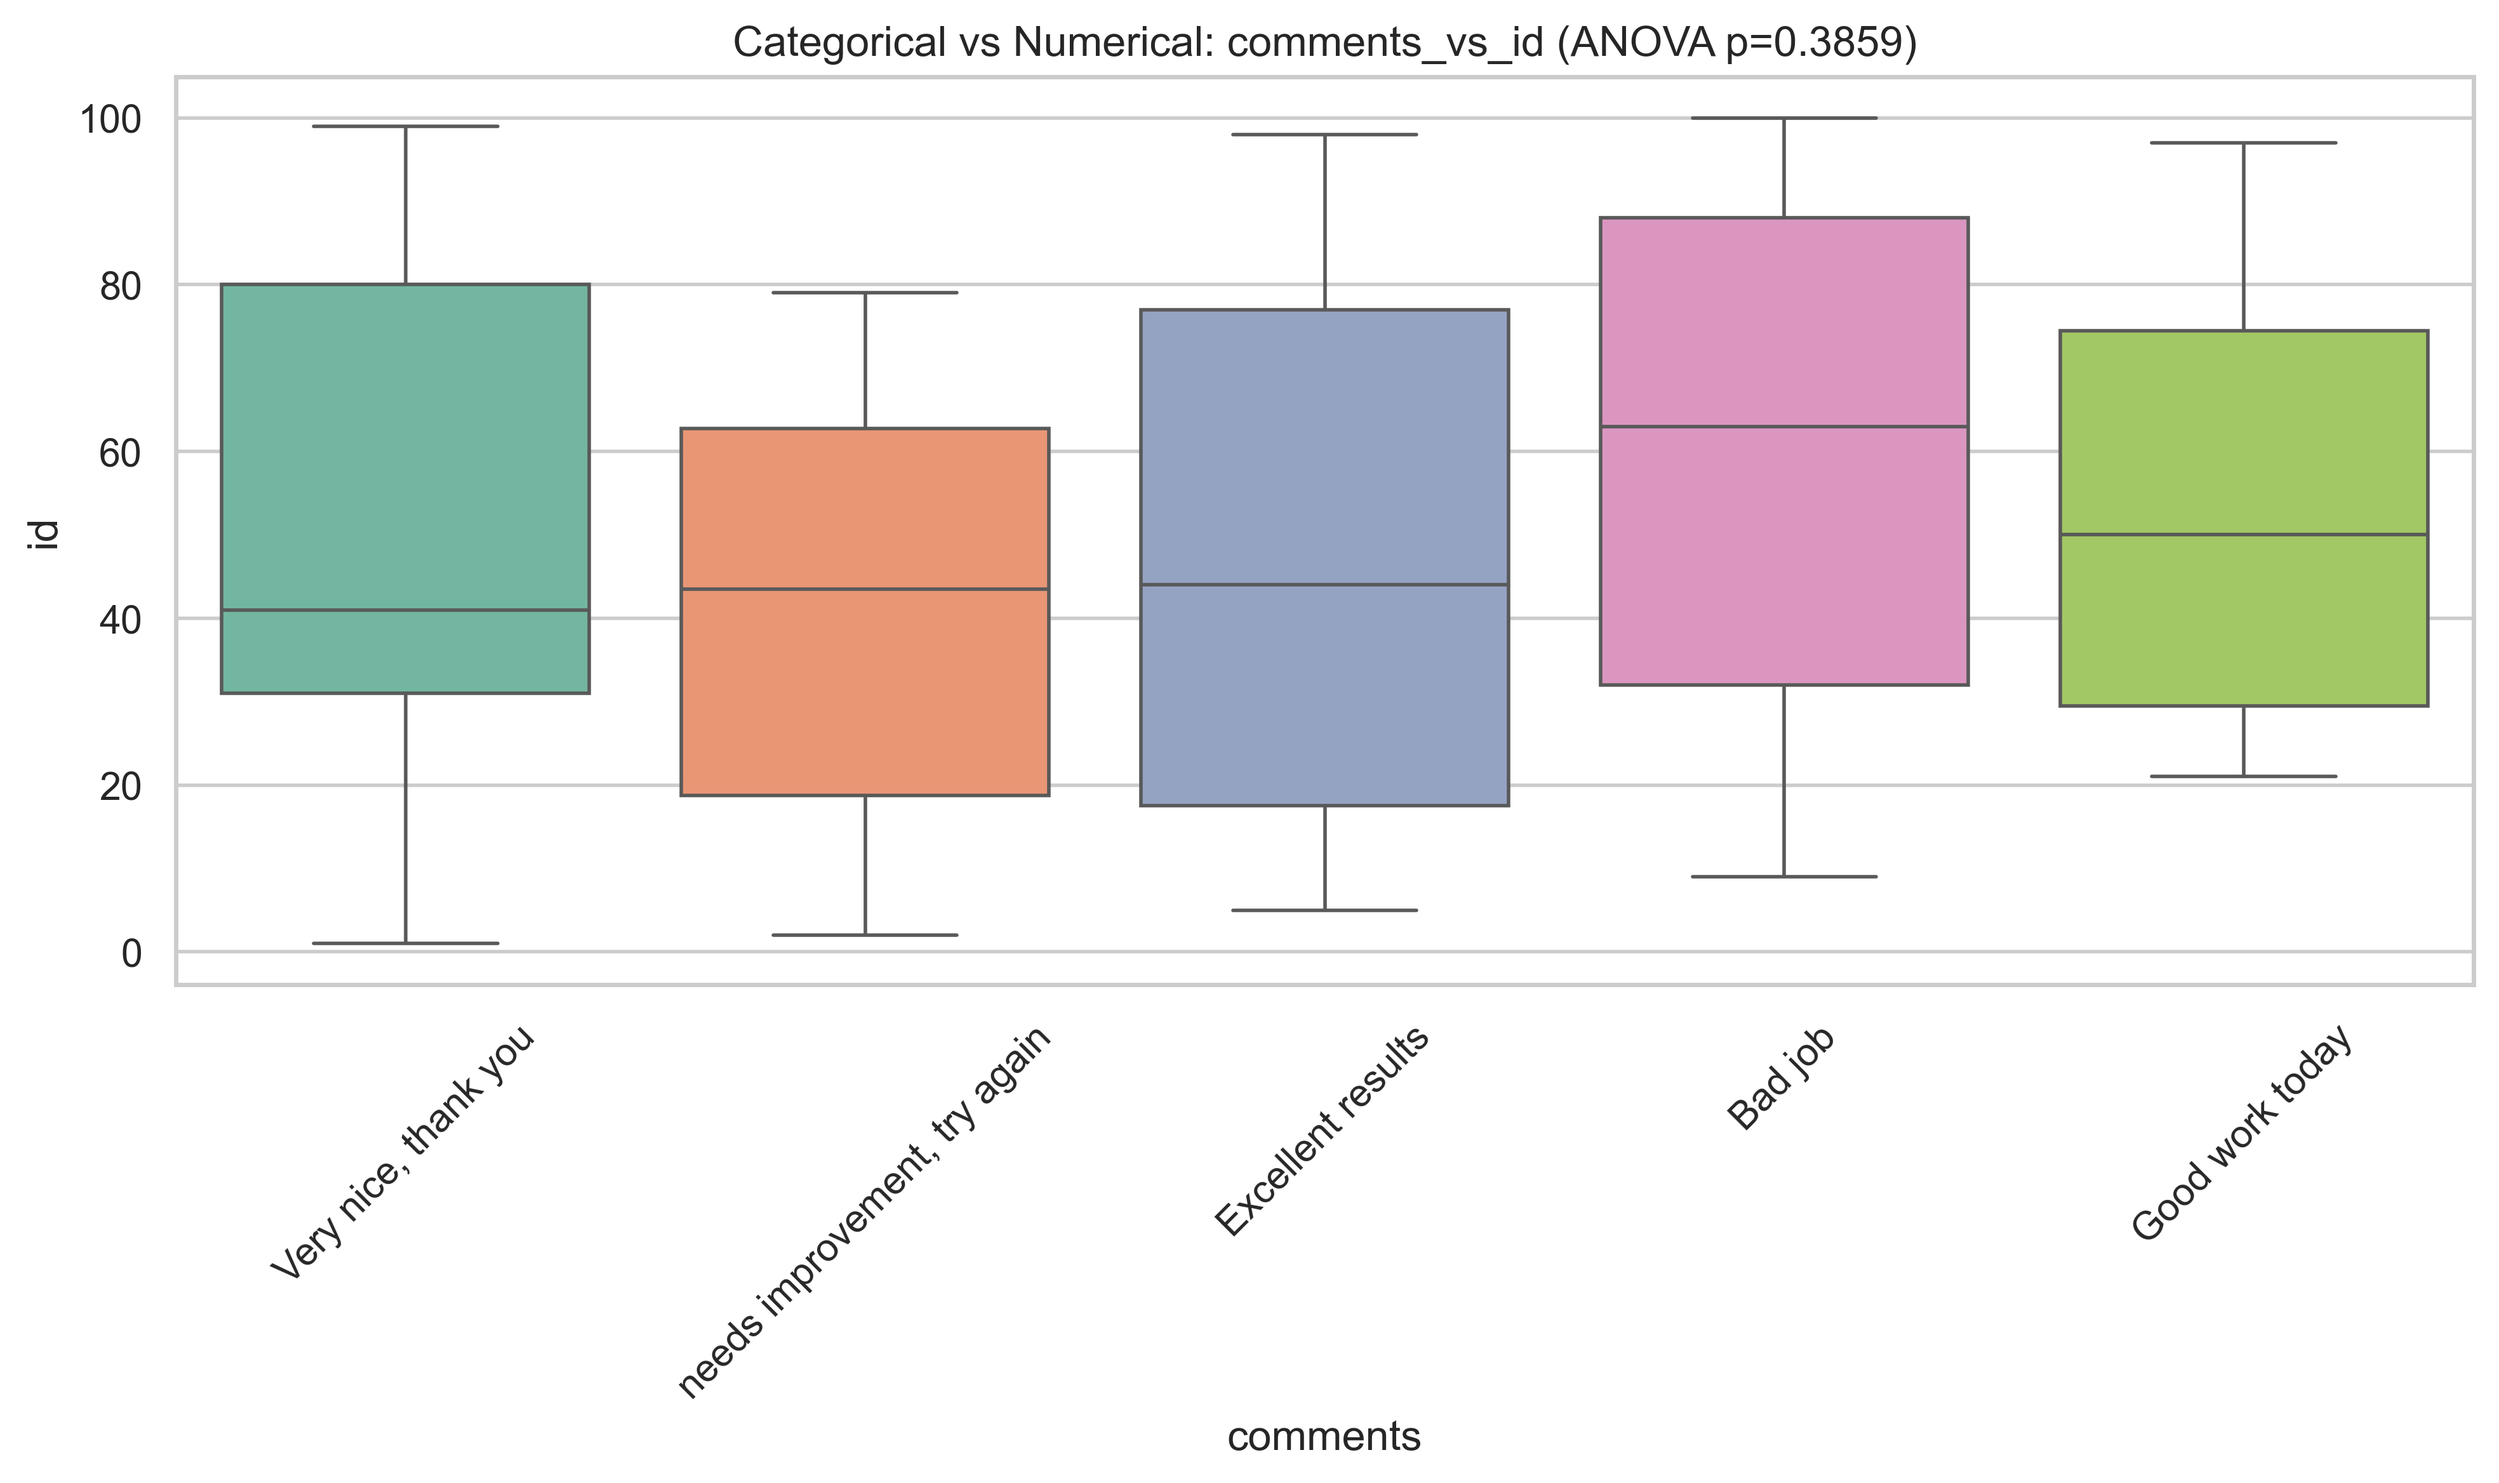
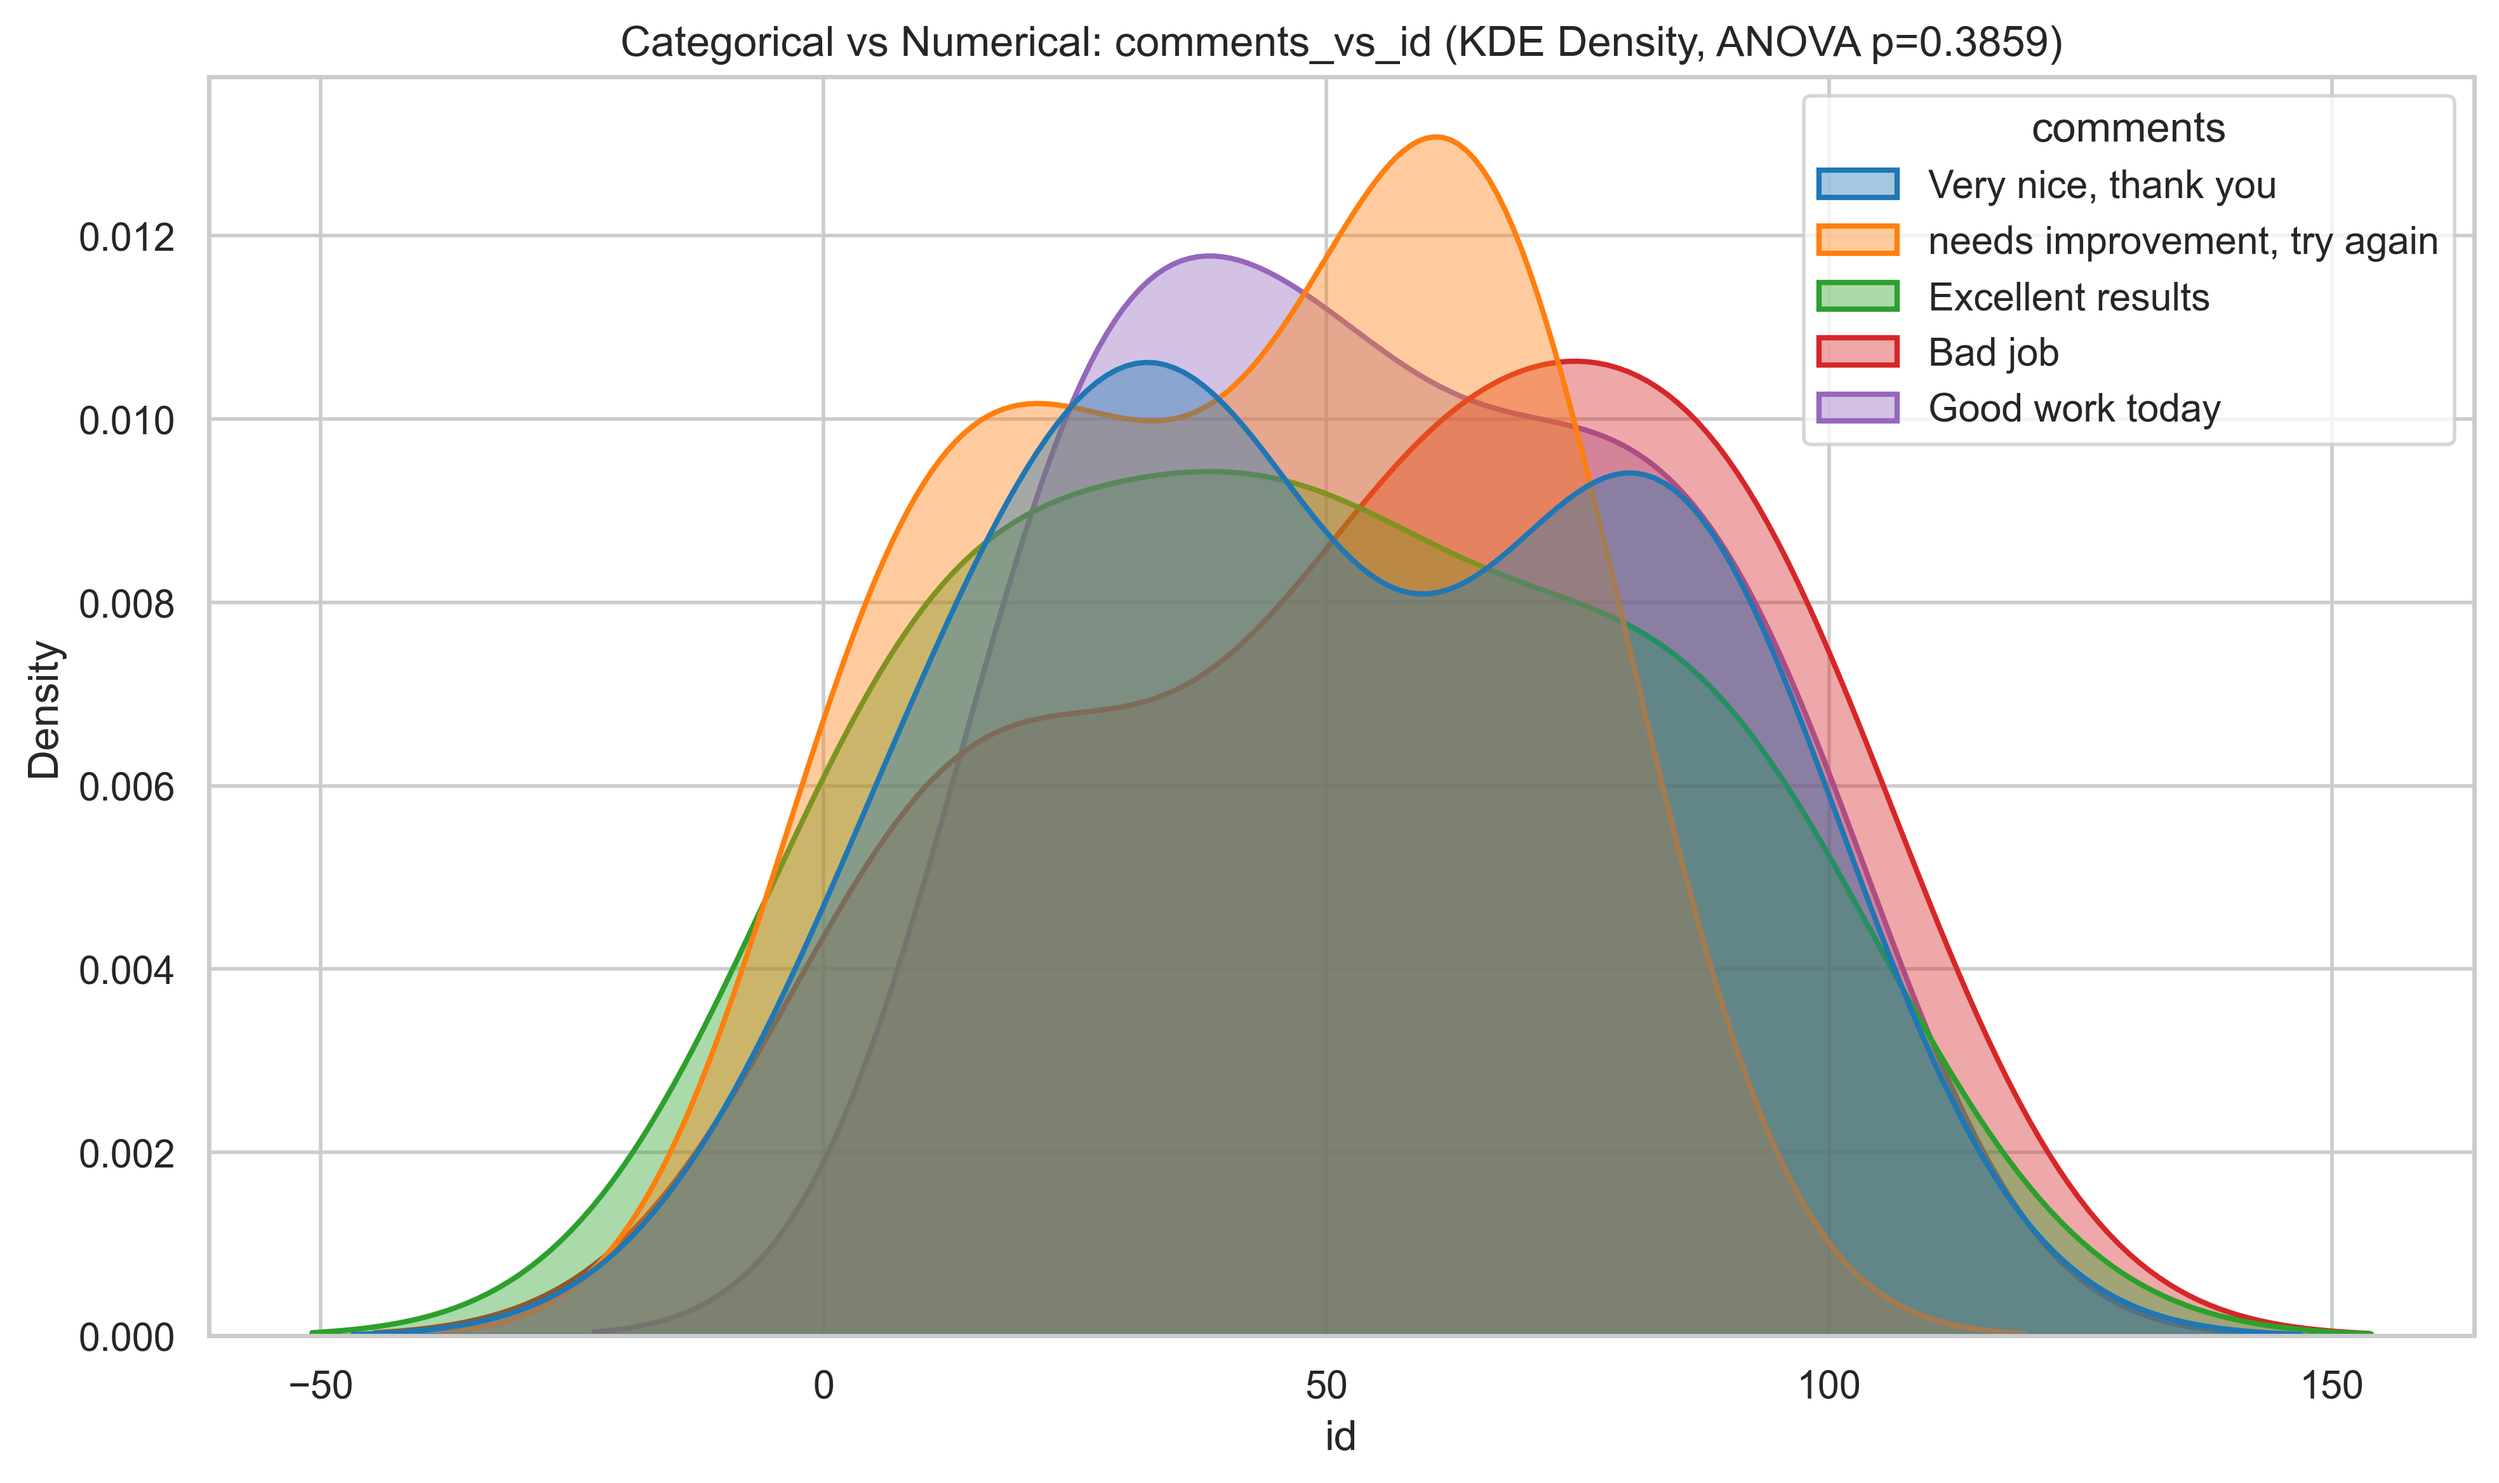
update visualizations for meaning and semantics (kde, heatmap, jointplot)

diff --git a/src/chokkhu/eda/tabular/plotter.py b/src/chokkhu/eda/tabular/plotter.py
@@ -280,14 +280,19 @@ class TabularPlotter:
         # Cat vs Cat
         cat_vs_cat = biv.get("cat_vs_cat", {})
         if cat_vs_cat:
-            print("  Categorical vs Categorical Analysis (Cross-tab, Stacked Bar)")
+            print("  Categorical vs Categorical Analysis (Contingency Heatmap)")
         for pair_name, data in cat_vs_cat.items():
             crosstab = data["crosstab"]
-            fig, ax = plt.subplots(figsize=(10, 6))
-            crosstab.plot(kind="bar", stacked=True, ax=ax, cmap="viridis")
-            ax.set_title(f"Categorical vs Categorical: {pair_name}")
-            ax.set_ylabel("Count")
-            ax.tick_params(axis="x", rotation=45)
+            fig, ax = plt.subplots(figsize=(10, 8))
+            sns.heatmap(crosstab, annot=True, fmt="d", cmap="YlGnBu", ax=ax, cbar=True)
+            ax.set_title(
+                f"Categorical vs Categorical: {pair_name} (Contingency Heatmap)"
+            )
+            ax.set_ylabel(crosstab.index.name if crosstab.index.name else "Variable 1")
+            ax.set_xlabel(
+                crosstab.columns.name if crosstab.columns.name else "Variable 2"
+            )
+            plt.tight_layout()
             PlotVisualizer.save_and_show(
                 fig, f"4_cat_vs_cat_{pair_name}.png", self.save_dir, self.save_reports
             )
@@ -295,23 +300,30 @@ class TabularPlotter:
         # Cat vs Num
         cat_vs_num = biv.get("cat_vs_num", {})
         if cat_vs_num:
-            print("  Categorical vs Numerical Analysis (ANOVA, Boxplots, Violin)")
+            print("  Categorical vs Numerical Analysis (Overlapping KDE Density)")
         for pair_name, data in cat_vs_num.items():
             cat = data["cat"]
             num = data["num"]
             fig, ax = plt.subplots(figsize=(10, 6))
-            sns.boxplot(
-                x=self.df[cat],
-                y=self.df[num],
-                hue=self.df[cat],
-                legend=False,
-                ax=ax,
-                palette="Set2",
-            )
+
+            import warnings
+
+            with warnings.catch_warnings():
+                warnings.simplefilter("ignore", category=UserWarning)
+                sns.kdeplot(
+                    data=self.df,
+                    x=num,
+                    hue=cat,
+                    fill=True,
+                    common_norm=False,
+                    palette="tab10",
+                    alpha=0.4,
+                    linewidth=1.5,
+                    ax=ax,
+                )
             ax.set_title(
-                f"Categorical vs Numerical: {pair_name} (ANOVA p={data.get('anova_p', 1.0):.4f})"
+                f"Categorical vs Numerical: {pair_name} (KDE Density, ANOVA p={data.get('anova_p', 1.0):.4f})"
             )
-            ax.tick_params(axis="x", rotation=45)
             PlotVisualizer.save_and_show(
                 fig, f"4_cat_vs_num_{pair_name}.png", self.save_dir, self.save_reports
             )
@@ -319,17 +331,25 @@ class TabularPlotter:
         # Num vs Num
         num_vs_num = biv.get("num_vs_num", {})
         if num_vs_num:
-            print("  Numerical vs Numerical Analysis (Scatter Plots, Hexbins)")
+            print("  Numerical vs Numerical Analysis (JointPlot with Regression)")
         for pair_name, data in num_vs_num.items():
             n1 = data["n1"]
             n2 = data["n2"]
-            fig, ax = plt.subplots(figsize=(10, 6))
-            sns.scatterplot(x=self.df[n1], y=self.df[n2], ax=ax, color="purple")
-            ax.set_title(
-                f"Numerical vs Numerical: {pair_name} (Pearson={data.get('pearson', 0.0):.4f})"
+            g = sns.jointplot(
+                data=self.df,
+                x=n1,
+                y=n2,
+                kind="reg",
+                height=8,
+                scatter_kws={"alpha": 0.5, "color": "purple"},
+                line_kws={"color": "red"},
+            )
+            g.fig.suptitle(
+                f"Numerical vs Numerical: {pair_name} (Pearson={data.get('pearson', 0.0):.4f})",
+                y=1.02,
             )
             PlotVisualizer.save_and_show(
-                fig, f"4_num_vs_num_{pair_name}.png", self.save_dir, self.save_reports
+                g.fig, f"4_num_vs_num_{pair_name}.png", self.save_dir, self.save_reports
             )
 
         target_analysis = biv.get("target_analysis", {})
@@ -534,13 +554,32 @@ class TabularPlotter:
             print("  Dimensionality Reduction (PCA)")
             fig, ax = plt.subplots(figsize=(10, 8))
             if self.target_col and self.target_col in self.df.columns:
-                sns.scatterplot(
-                    x=pca_1,
-                    y=pca_2,
-                    hue=self.df.loc[pca_index, self.target_col],
-                    palette="tab10",
-                    ax=ax,
-                )
+                target_data = self.df.loc[pca_index, self.target_col]
+                if (
+                    pd.api.types.is_numeric_dtype(target_data)
+                    and target_data.nunique() > 15
+                ):
+                    sns.scatterplot(
+                        x=pca_1,
+                        y=pca_2,
+                        hue=target_data,
+                        palette="viridis",
+                        legend=False,
+                        ax=ax,
+                    )
+                    norm = plt.Normalize(target_data.min(), target_data.max())
+                    sm = plt.cm.ScalarMappable(cmap="viridis", norm=norm)
+                    sm.set_array([])
+                    cbar = fig.colorbar(sm, ax=ax)
+                    cbar.set_label(self.target_col)
+                else:
+                    sns.scatterplot(
+                        x=pca_1,
+                        y=pca_2,
+                        hue=target_data,
+                        palette="tab10",
+                        ax=ax,
+                    )
             else:
                 sns.scatterplot(x=pca_1, y=pca_2, color="purple", ax=ax)
             ax.set_title("PCA Deep Embedding (2D Projection)")

diff --git a/setup.py b/setup.py
@@ -3,7 +3,7 @@ import setuptools
 with open("README.md", "r", encoding="utf-8") as f:
     long_description=f.read()
 
-__version__="0.3.12"
+__version__="0.3.13"
 
 REPO_NAME="Chokkhu-PyPi-Package"
 AUTHOR_USER_NAME="tamimystic"
